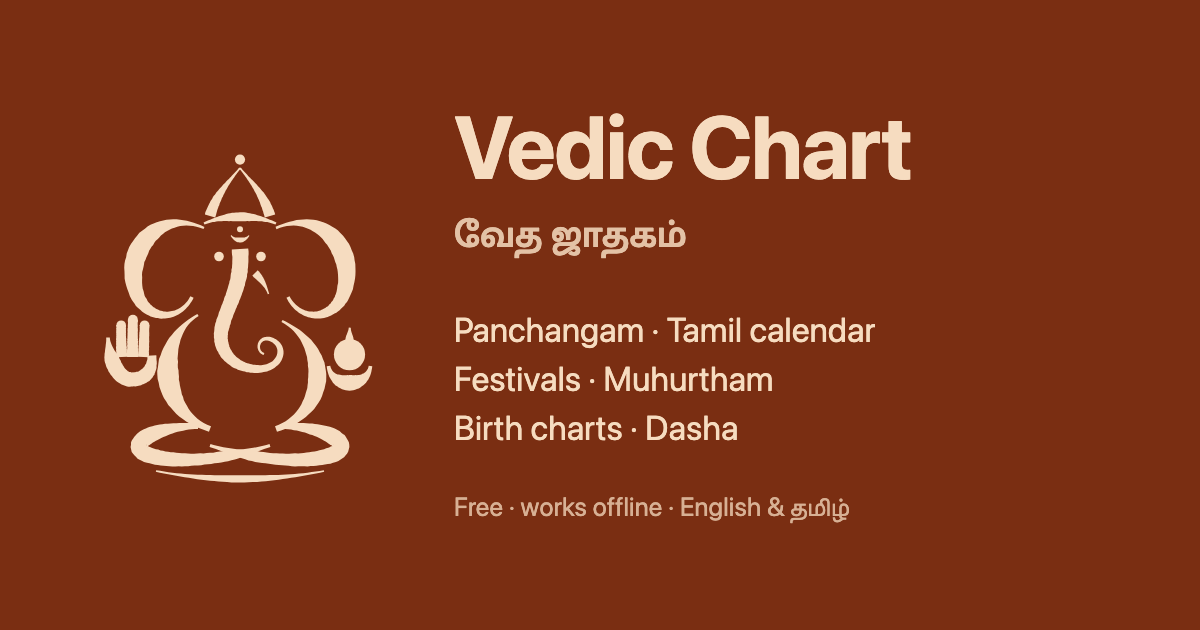
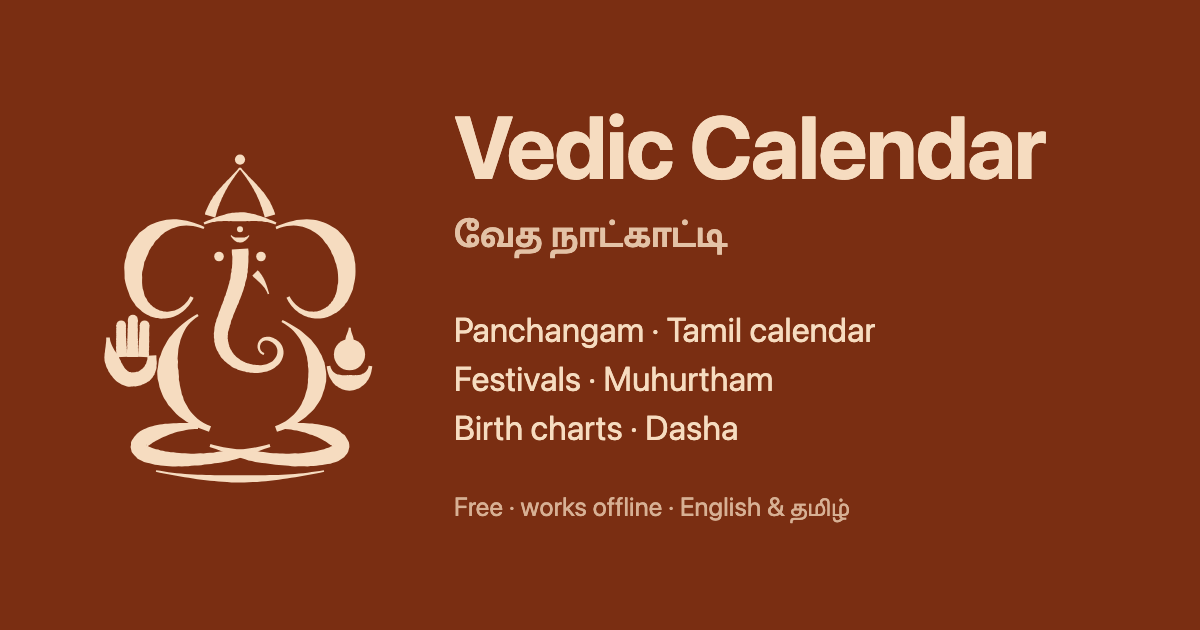
Rename to Vedic Calendar, use a 12-hour time picker, and tighten muhurtham rules
The site is now called Vedic Calendar (வேத நாட்காட்டி) in the heading,
title, metadata, app manifest and share banner. The URL, repository and
storage keys keep the vedic-chart name so links and saved settings work.

The time field is now hour, minute and AM/PM pickers, since a native time
field shows 24-hour time on some devices. Seconds are gone; the summary
and chart centres show 12-hour times. Links with ?time=HH:MM[:SS] still
work.

Muhurtham windows now run until sunset instead of stopping at 1 pm. This
adds no general days (from mid-afternoon the Sun sits in the 7th or 8th
from the lagna) but a few education days.

Muhurtham windows now avoid barred panchanga yogas, as in classical texts
such as Muhurta Chintamani: Vyatipata and Vaidhriti, the first half of
Parigha, and the opening ghatis of Vishkambha, Vajra, Shula, Ganda,
Atiganda and Vyaghata. The rules list and sources say so. This drops 3 of
Harikesanallur's 2026-27 Chennai days, now listed as exceptions in the
published-list check.

The education-day rules now fold away under "Rules used", closed by
default.

Changed region(s): [[0.6167, 0.181, 0.8942, 0.3016], [0.4625, 0.3317, 0.6167, 0.4222]]

diff --git a/docs/js/i18n.js b/docs/js/i18n.js
@@ -21,14 +21,17 @@ const fill = (s, vars) => s.replace(/\{(\w+)\}/g, (_, k) => (vars && k in vars ?
 // ---------- interface phrases (English template -> Tamil) ----------
 
 const UI = {
-  "Vedic Chart": "வேத ஜாதகம்",
-  "Vedic Chart – Free Panchangam, Tamil Calendar, Muhurtham & Birth Chart": "வேத ஜாதகம் – இலவச பஞ்சாங்கம், தமிழ்த் தேதி, முகூர்த்தம், ஜாதகம்",
+  "Vedic Calendar": "வேத நாட்காட்டி",
+  "Vedic Calendar – Free Panchangam, Tamil Calendar, Muhurtham & Birth Chart": "வேத நாட்காட்டி – இலவச பஞ்சாங்கம், தமிழ்த் தேதி, முகூர்த்தம், ஜாதகம்",
   "Free Vedic calendar app: daily Panchangam with tithi, nakshatra, Rahu Kalam and hora, Tamil calendar dates, Hindu festival dates and puja times, Shubha Muhurtham days with lagna, and South Indian birth charts with Vimshottari dasha.": "இலவச வேத நாட்காட்டி செயலி: திதி, நட்சத்திரம், ராகு காலம், ஓரையுடன் தினசரி பஞ்சாங்கம், தமிழ்த் தேதி, பண்டிகை நாட்கள், பூஜை நேரங்கள், லக்னத்துடன் சுப முகூர்த்த நாட்கள், விம்சோத்தரி தசையுடன் தென்னிந்திய ஜாதகம்.",
   "Place": "இடம்",
   "Start typing a city or town": "ஊர் அல்லது நகரத்தின் பெயரை உள்ளிடவும்",
   "Search": "தேடு",
   "Date": "தேதி",
   "Time": "நேரம்",
+  "Hour": "மணி",
+  "Minute": "நிமிடம்",
+  "AM or PM": "முற்பகல் அல்லது பிற்பகல்",
   "(local)": "(உள்ளூர்)",
   "Latitude": "அட்சரேகை",
   "Longitude": "தீர்க்கரேகை",
@@ -142,22 +145,24 @@ const UI = {
   "Not a Kari naal.": "கரி நாள் அல்ல.",
   "Yogam (from the weekday and the nakshatra at sunrise): Amirtha or Siddha, not Marana or Prabalarishta.": "யோகம் (கிழமை, சூரிய உதய நட்சத்திரத்திலிருந்து): அமிர்த அல்லது சித்த யோகம்; மரண, பிரபலாரிஷ்ட யோகம் அல்ல.",
   "Not an eclipse day, and neither Jupiter nor Venus combust (moudhyam).": "கிரகண நாள் அல்ல; குருவோ சுக்கிரனோ மௌட்யத்தில் (அஸ்தங்கம்) இல்லை.",
-  "Between an hour before sunrise (not before 5 am) and 1 pm.": "சூரிய உதயத்துக்கு ஒரு மணி நேரம் முன்பிலிருந்து (காலை 5 மணிக்கு முன் அல்ல) மதியம் 1 மணி வரை.",
+  "Between an hour before sunrise (not before 5 am) and sunset.": "சூரிய உதயத்துக்கு ஒரு மணி நேரம் முன்பிலிருந்து (காலை 5 மணிக்கு முன் அல்ல) சூரிய அஸ்தமனம் வரை.",
   "Outside Rahu Kalam, Yamaganda, Gulika Kalam and Vishti karana.": "ராகு காலம், எமகண்டம், குளிகை, விஷ்டி கரணம் தவிர்த்து.",
   "No planet in the 7th or 8th house from the lagna.": "லக்னத்திலிருந்து 7, 8-ஆம் வீடுகளில் கிரகம் இல்லை.",
   "The lagna isn't in the first or last degree of its sign.": "லக்னம் ராசியின் முதல் அல்லது கடைசி பாகையில் இல்லை.",
   "At least 20 minutes long.": "குறைந்தது 20 நிமிடம்.",
+  "Panchanga yoga: not Vyatipata or Vaidhriti, not the first half of Parigha, and not the first 3 ghatis (72 minutes) of Vishkambha or Vajra, 5 of Shula, 6 of Ganda or Atiganda, or 9 of Vyaghata.": "பஞ்சாங்க யோகம்: வியதீபாதம், வைதிருதி அல்ல; பரிகத்தின் முதல் பாதி அல்ல; விஷ்கம்பம், வஜ்ரம் ஆகியவற்றின் முதல் 3 நாழிகை (72 நிமிடம்), சூலத்தின் முதல் 5, கண்டம், அதிகண்டம் ஆகியவற்றின் முதல் 6, வியாகாதத்தின் முதல் 9 நாழிகை அல்ல.",
   "Rules used": "பயன்படுத்திய விதிகள்",
   "The day": "நாள்",
   "The time": "நேரம்",
   "Sources": "ஆதாரங்கள்",
-  "Weekday, tithi, nakshatra, month, Kari naal and time of day follow Tamil calendar practice; Rahu Kalam, Yamaganda, Gulika Kalam, Vishti karana, the 8th house, eclipses, moudhyam and lagna sandhi follow general panchangam practice.": "கிழமை, திதி, நட்சத்திரம், மாதம், கரி நாள், நேரம் ஆகியவை தமிழ் நாட்காட்டி வழக்கப்படி; ராகு காலம், எமகண்டம், குளிகை, விஷ்டி கரணம், 8-ஆம் வீடு, கிரகணம், மௌட்யம், லக்ன சந்தி ஆகியவை பொதுவான பஞ்சாங்க வழக்கப்படி.",
+  "Weekday, tithi, nakshatra, month, Kari naal and time of day follow Tamil calendar practice; Rahu Kalam, Yamaganda, Gulika Kalam, Vishti karana, the 8th house, eclipses, moudhyam and lagna sandhi follow general panchangam practice. The panchanga yoga rule follows classical muhurtha texts such as Muhurta Chintamani; many Tamil calendars don't apply it, so a few of their days aren't listed here.": "கிழமை, திதி, நட்சத்திரம், மாதம், கரி நாள், நேரம் ஆகியவை தமிழ் நாட்காட்டி வழக்கப்படி; ராகு காலம், எமகண்டம், குளிகை, விஷ்டி கரணம், 8-ஆம் வீடு, கிரகணம், மௌட்யம், லக்ன சந்தி ஆகியவை பொதுவான பஞ்சாங்க வழக்கப்படி. பஞ்சாங்க யோக விதி முகூர்த்த சிந்தாமணி போன்ற பழைய முகூர்த்த நூல்களைப் பின்பற்றுகிறது; பல தமிழ் நாட்காட்டிகள் இதைப் பயன்படுத்துவதில்லை, அதனால் அவற்றின் சில நாட்கள் இங்கே இடம்பெறவில்லை.",
   "The empty 7th house and the rules for the extra education days: B. V. Raman, Muhurtha or Electional Astrology, chapters 9 and 11": "7-ஆம் வீடு காலியாக இருப்பதும் கல்வி தொடங்கக் கூடுதல் நாட்களுக்கான விதிகளும்: பி. வி. ராமன், Muhurtha or Electional Astrology, அத்தியாயங்கள் 9, 11",
   "chapter 9 summary": "அத்தியாயம் 9 சுருக்கம்",
   "chapter 11 summary": "அத்தியாயம் 11 சுருக்கம்",
   "Amirtha, Siddha, Marana and Prabalarishta yogam by weekday and nakshatra:": "கிழமை, நட்சத்திர அடிப்படையில் அமிர்த, சித்த, மரண, பிரபலாரிஷ்ட யோகங்கள்:",
   "Ungal Vazhkkai Vazhikatti": "உங்கள் வாழ்க்கை வழிகாட்டி",
-  "Vidyarambham and other starts of learning can also be held on these days, which miss the general rules, mostly by falling in Aadi, Purattasi or Margazhi or on Ardra. They follow B. V. Raman's rules for education: nakshatra Ashwini, Rohini, Mrigashira, Ardra, Punarvasu, Pushya, Uttara Phalguni, Hasta, Chitra, Swati, Uttara Ashadha, Shravana, Dhanishta, Shatabhisha or Revati; the general tithis except Chaturthi and Chaturdashi; any month; and a lagna that isn't a fixed sign. The other day and time rules apply, except the empty 7th house and moudhyam.": "வித்யாரம்பம் போன்ற கல்வித் தொடக்கங்களை இந்த நாட்களிலும் செய்யலாம்; இவை பொது விதிகளுக்குப் பொருந்தாதவை (பெரும்பாலும் ஆடி, புரட்டாசி, மார்கழி மாதங்களில் அல்லது திருவாதிரையில் வருவதால்). இவை பி. வி. ராமனின் கல்வி விதிகளைப் பின்பற்றுகின்றன: நட்சத்திரம் அஸ்வினி, ரோகிணி, மிருகசீரிஷம், திருவாதிரை, புனர்பூசம், பூசம், உத்திரம், அஸ்தம், சித்திரை, சுவாதி, உத்திராடம், திருவோணம், அவிட்டம், சதயம் அல்லது ரேவதி; சதுர்த்தி, சதுர்த்தசி தவிர பொதுத் திதிகள்; எந்த மாதமும்; ஸ்திர ராசி அல்லாத லக்னம். 7-ஆம் வீடு, மௌட்யம் தவிர பிற நாள், நேர விதிகள் பொருந்தும்.",
+  "Vidyarambham and other starts of learning can also be held on these days, which miss the general rules, mostly by falling in Aadi, Purattasi or Margazhi or on Ardra.": "வித்யாரம்பம் போன்ற கல்வித் தொடக்கங்களை இந்த நாட்களிலும் செய்யலாம்; இவை பொது விதிகளுக்குப் பொருந்தாதவை (பெரும்பாலும் ஆடி, புரட்டாசி, மார்கழி மாதங்களில் அல்லது திருவாதிரையில் வருவதால்).",
+  "They follow B. V. Raman's rules for education: nakshatra Ashwini, Rohini, Mrigashira, Ardra, Punarvasu, Pushya, Uttara Phalguni, Hasta, Chitra, Swati, Uttara Ashadha, Shravana, Dhanishta, Shatabhisha or Revati; the general tithis except Chaturthi and Chaturdashi; any month; and a lagna that isn't a fixed sign. The other day and time rules apply, except the empty 7th house and moudhyam.": "இவை பி. வி. ராமனின் கல்வி விதிகளைப் பின்பற்றுகின்றன: நட்சத்திரம் அஸ்வினி, ரோகிணி, மிருகசீரிஷம், திருவாதிரை, புனர்பூசம், பூசம், உத்திரம், அஸ்தம், சித்திரை, சுவாதி, உத்திராடம், திருவோணம், அவிட்டம், சதயம் அல்லது ரேவதி; சதுர்த்தி, சதுர்த்தசி தவிர பொதுத் திதிகள்; எந்த மாதமும்; ஸ்திர ராசி அல்லாத லக்னம். 7-ஆம் வீடு, மௌட்யம் தவிர பிற நாள், நேர விதிகள் பொருந்தும்.",
   // tables
   "Body": "கிரகம்",
   "Longitude|table": "பாகை", // "|context" keys show the part before "|" in English

diff --git a/docs/index.html b/docs/index.html
@@ -4,9 +4,9 @@
   <meta charset="utf-8">
   <meta name="viewport" content="width=device-width, initial-scale=1, viewport-fit=cover">
   <meta name="apple-mobile-web-app-capable" content="yes">
-  <meta name="apple-mobile-web-app-title" content="Vedic Chart">
+  <meta name="apple-mobile-web-app-title" content="Vedic Calendar">
   <meta name="theme-color" content="#7a2e12">
-  <title>Vedic Chart – Free Panchangam, Tamil Calendar, Muhurtham &amp; Birth Chart</title>
+  <title>Vedic Calendar – Free Panchangam, Tamil Calendar, Muhurtham &amp; Birth Chart</title>
   <meta name="description" content="Free Vedic calendar app: daily Panchangam with tithi, nakshatra, Rahu Kalam and hora, Tamil calendar dates, Hindu festival dates and puja times, Shubha Muhurtham days with lagna, and South Indian birth charts with Vimshottari dasha.">
   <!-- app.js points the canonical link at https://aganba.github.io/vedic-chart/ (or ?lang=ta in Tamil), so
        shared links with birth details or ?tab= are folded into one page. -->
@@ -14,20 +14,20 @@
   <link rel="alternate" hreflang="ta" href="https://aganba.github.io/vedic-chart/?lang=ta">
   <link rel="alternate" hreflang="x-default" href="https://aganba.github.io/vedic-chart/">
   <meta property="og:type" content="website">
-  <meta property="og:site_name" content="Vedic Chart">
-  <meta property="og:title" content="Vedic Chart – Free Panchangam, Tamil Calendar, Muhurtham &amp; Birth Chart">
+  <meta property="og:site_name" content="Vedic Calendar">
+  <meta property="og:title" content="Vedic Calendar – Free Panchangam, Tamil Calendar, Muhurtham &amp; Birth Chart">
   <meta property="og:description" content="Free Vedic calendar app: daily Panchangam with tithi, nakshatra, Rahu Kalam and hora, Tamil calendar dates, Hindu festival dates and puja times, Shubha Muhurtham days with lagna, and South Indian birth charts with Vimshottari dasha.">
   <meta property="og:url" content="https://aganba.github.io/vedic-chart/">
   <meta property="og:image" content="https://aganba.github.io/vedic-chart/og-image.png">
   <meta property="og:image:width" content="1200">
   <meta property="og:image:height" content="630">
-  <meta property="og:image:alt" content="Vedic Chart: Panchangam, Tamil calendar, festivals, Muhurtham, birth charts and dasha">
+  <meta property="og:image:alt" content="Vedic Calendar: Panchangam, Tamil calendar, festivals, Muhurtham, birth charts and dasha">
   <meta name="twitter:card" content="summary_large_image">
   <script type="application/ld+json">
   {
     "@context": "https://schema.org",
     "@type": "WebApplication",
-    "name": "Vedic Chart",
+    "name": "Vedic Calendar",
     "url": "https://aganba.github.io/vedic-chart/",
     "image": "https://aganba.github.io/vedic-chart/og-image.png",
     "description": "Free Vedic calendar app: daily Panchangam with tithi, nakshatra, Rahu Kalam and hora, Tamil calendar dates, Hindu festival dates and puja times, Shubha Muhurtham days with lagna, and South Indian birth charts with Vimshottari dasha.",
@@ -62,7 +62,7 @@
     <span class="emblem" role="img" aria-label="Om Ganesha"></span>
   </div>
   <header class="topbar">
-    <h1 data-i18n="Vedic Chart">Vedic Chart</h1>
+    <h1 data-i18n="Vedic Calendar">Vedic Calendar</h1>
     <button type="button" id="lang" class="secondary lang-toggle" lang="ta" aria-label="தமிழில் காட்டு">தமிழ்</button>
   </header>
 
@@ -80,9 +80,16 @@
         <label for="date"><span data-i18n="Date">Date</span> <span class="muted" id="datefmt"></span></label>
         <input id="date" type="date" required>
       </div>
-      <div class="field">
-        <label for="time"><span data-i18n="Time">Time</span> <span class="muted" data-i18n="(local)">(local)</span></label>
-        <input id="time" type="time" step="1" required>
+      <div class="field time-field">
+        <label for="hour"><span data-i18n="Time">Time</span> <span class="muted" data-i18n="(local)">(local)</span></label>
+        <!-- Hour, minute and AM/PM pickers rather than a native time field, whose
+             12/24-hour display follows the device. app.js keeps #time as HH:MM. -->
+        <div class="row time-row">
+          <select id="hour" aria-label="Hour" data-i18n-aria="Hour"></select>
+          <select id="minute" aria-label="Minute" data-i18n-aria="Minute"></select>
+          <select id="ampm" aria-label="AM or PM" data-i18n-aria="AM or PM"><option>AM</option><option>PM</option></select>
+        </div>
+        <input id="time" type="hidden">
       </div>
       <div class="field">
         <label for="lat"><span data-i18n="Latitude">Latitude</span> <span class="muted" data-i18n="(N +)">(N +)</span></label>
@@ -196,15 +203,16 @@
             </ul>
             <h3 data-i18n="The time">The time</h3>
             <ul>
-              <li data-i18n="Between an hour before sunrise (not before 5 am) and 1 pm.">Between an hour before sunrise (not before 5 am) and 1 pm.</li>
+              <li data-i18n="Between an hour before sunrise (not before 5 am) and sunset.">Between an hour before sunrise (not before 5 am) and sunset.</li>
               <li data-i18n="Outside Rahu Kalam, Yamaganda, Gulika Kalam and Vishti karana.">Outside Rahu Kalam, Yamaganda, Gulika Kalam and Vishti karana.</li>
+              <li data-i18n="Panchanga yoga: not Vyatipata or Vaidhriti, not the first half of Parigha, and not the first 3 ghatis (72 minutes) of Vishkambha or Vajra, 5 of Shula, 6 of Ganda or Atiganda, or 9 of Vyaghata.">Panchanga yoga: not Vyatipata or Vaidhriti, not the first half of Parigha, and not the first 3 ghatis (72 minutes) of Vishkambha or Vajra, 5 of Shula, 6 of Ganda or Atiganda, or 9 of Vyaghata.</li>
               <li data-i18n="No planet in the 7th or 8th house from the lagna.">No planet in the 7th or 8th house from the lagna.</li>
               <li data-i18n="The lagna isn&#39;t in the first or last degree of its sign.">The lagna isn't in the first or last degree of its sign.</li>
               <li data-i18n="At least 20 minutes long.">At least 20 minutes long.</li>
             </ul>
             <h3 data-i18n="Sources">Sources</h3>
             <ul>
-              <li data-i18n="Weekday, tithi, nakshatra, month, Kari naal and time of day follow Tamil calendar practice; Rahu Kalam, Yamaganda, Gulika Kalam, Vishti karana, the 8th house, eclipses, moudhyam and lagna sandhi follow general panchangam practice.">Weekday, tithi, nakshatra, month, Kari naal and time of day follow Tamil calendar practice; Rahu Kalam, Yamaganda, Gulika Kalam, Vishti karana, the 8th house, eclipses, moudhyam and lagna sandhi follow general panchangam practice.</li>
+              <li data-i18n="Weekday, tithi, nakshatra, month, Kari naal and time of day follow Tamil calendar practice; Rahu Kalam, Yamaganda, Gulika Kalam, Vishti karana, the 8th house, eclipses, moudhyam and lagna sandhi follow general panchangam practice. The panchanga yoga rule follows classical muhurtha texts such as Muhurta Chintamani; many Tamil calendars don't apply it, so a few of their days aren't listed here.">Weekday, tithi, nakshatra, month, Kari naal and time of day follow Tamil calendar practice; Rahu Kalam, Yamaganda, Gulika Kalam, Vishti karana, the 8th house, eclipses, moudhyam and lagna sandhi follow general panchangam practice. The panchanga yoga rule follows classical muhurtha texts such as Muhurta Chintamani; many Tamil calendars don't apply it, so a few of their days aren't listed here.</li>
               <li><span data-i18n="The empty 7th house and the rules for the extra education days: B. V. Raman, Muhurtha or Electional Astrology, chapters 9 and 11">The empty 7th house and the rules for the extra education days: B. V. Raman, Muhurtha or Electional Astrology, chapters 9 and 11</span> (<a href="https://vedastro.org/blog/Muhurtha-Chapter-9-Marriage.html" target="_blank" rel="noopener" data-i18n="chapter 9 summary">chapter 9 summary</a>, <a href="https://vedastro.org/blog/Muhurtha-Chapter-11-Elections-Pertaining-to-Education.html" target="_blank" rel="noopener" data-i18n="chapter 11 summary">chapter 11 summary</a>)</li>
               <li><span data-i18n="Amirtha, Siddha, Marana and Prabalarishta yogam by weekday and nakshatra:">Amirtha, Siddha, Marana and Prabalarishta yogam by weekday and nakshatra:</span> <a href="https://ungalvazhkkai.seithisaral.in/how-to-predict-amitha-yoga-chitha-yoga-and-marana-yoga/" target="_blank" rel="noopener" data-i18n="Ungal Vazhkkai Vazhikatti">Ungal Vazhkkai Vazhikatti</a></li>
             </ul>

diff --git a/docs/app.js b/docs/app.js
@@ -126,7 +126,39 @@ function setNow() {
   const d = new Date();
   const p = (n) => String(n).padStart(2, "0");
   $("date").value = `${d.getFullYear()}-${p(d.getMonth() + 1)}-${p(d.getDate())}`;
-  $("time").value = `${p(d.getHours())}:${p(d.getMinutes())}:${p(d.getSeconds())}`;
+  setTime(`${p(d.getHours())}:${p(d.getMinutes())}`);
+}
+
+// The time pickers: hour 1-12, minute, AM/PM. #time holds the same time as
+// 24-hour "HH:MM" for the calculations and shared links.
+function initTimePicker() {
+  const p = (n) => String(n).padStart(2, "0");
+  $("hour").innerHTML = Array.from({ length: 12 }, (_, i) => `<option value="${i + 1}">${i + 1}</option>`).join("");
+  $("minute").innerHTML = Array.from({ length: 60 }, (_, i) => `<option value="${i}">${p(i)}</option>`).join("");
+  for (const id of ["hour", "minute", "ampm"]) {
+    $(id).addEventListener("change", () => {
+      const h = Number($("hour").value) % 12 + ($("ampm").value === "PM" ? 12 : 0);
+      $("time").value = `${p(h)}:${p(Number($("minute").value))}`;
+      refreshTimezone();
+    });
+  }
+}
+
+// Sets the pickers and #time from "HH:MM" (seconds, if given, are dropped).
+function setTime(v) {
+  const m = String(v).match(/^(\d{1,2}):(\d{2})/);
+  if (!m) return;
+  const h = Math.min(Number(m[1]), 23), mi = Math.min(Number(m[2]), 59);
+  $("hour").value = String(h % 12 || 12);
+  $("minute").value = String(mi);
+  $("ampm").value = h < 12 ? "AM" : "PM";
+  $("time").value = `${String(h).padStart(2, "0")}:${String(mi).padStart(2, "0")}`;
+}
+
+// "2026-11-01 10:00 AM": the entered date and time, 12-hour clock.
+function whenText(c) {
+  const date = c.input.local_time.slice(0, 10);
+  return `${date} ${fmtTime(c.input.local_time, date)}`;
 }
 
 function devicePosition() {
@@ -325,7 +357,7 @@ function chartItem(b) {
 }
 
 function renderCharts(c) {
-  const when = `${c.input.local_time.replace("T", " ")} (UTC${fmtOffset(c.input.utc_offset)})`;
+  const when = `${whenText(c)} (UTC${fmtOffset(c.input.utc_offset)})`;
 
   const rasiBoxes = {};
   for (const b of c.bodies) (rasiBoxes[b.sign] ||= []).push(chartItem(b));
@@ -345,7 +377,7 @@ function renderSummary(c) {
   const coord = `${Math.abs(lat).toFixed(4)}°${compass(lat >= 0 ? "N" : "S")}, ${Math.abs(lon).toFixed(4)}°${compass(lon >= 0 ? "E" : "W")}`;
   $("summary").innerHTML = `
     <strong>${esc($("place").value || t("Chart"))}</strong>
-    <span>${esc(c.input.local_time.replace("T", " "))} · UTC${fmtOffset(c.input.utc_offset)}${c.input.timezone ? " · " + esc(c.input.timezone) : ""}</span>
+    <span>${esc(whenText(c))} · UTC${fmtOffset(c.input.utc_offset)}${c.input.timezone ? " · " + esc(c.input.timezone) : ""}</span>
     <span>${coord}</span>
     <span>${esc(t("Ayanamsa: {name} = {value}", { name: tr(c.settings.ayanamsa_label, "ayanamsa"),
       value: `${c.settings.ayanamsa_deg}° ${c.settings.ayanamsa_dms.replace(/^\d+° /, "")}` }))}</span>`;
@@ -605,7 +637,8 @@ function drawFestivals() {
     + (status ? `<p class="hint">${esc(status)}</p>` : !found.length ? `<p class="hint">${esc(t("No festivals found."))}</p>` : "");
   // The year's list, then a note with the extra days for starting education.
   const extra = education.length ? `<div class="muhurtha-extra"><h3 class="muhurtha-extra-title">${esc(t("More days for starting education"))}</h3>`
-    + `<p class="hint">${esc(t("Vidyarambham and other starts of learning can also be held on these days, which miss the general rules, mostly by falling in Aadi, Purattasi or Margazhi or on Ardra. They follow B. V. Raman's rules for education: nakshatra Ashwini, Rohini, Mrigashira, Ardra, Punarvasu, Pushya, Uttara Phalguni, Hasta, Chitra, Swati, Uttara Ashadha, Shravana, Dhanishta, Shatabhisha or Revati; the general tithis except Chaturthi and Chaturdashi; any month; and a lagna that isn't a fixed sign. The other day and time rules apply, except the empty 7th house and moudhyam."))}</p>`
+    + `<p class="hint">${esc(t("Vidyarambham and other starts of learning can also be held on these days, which miss the general rules, mostly by falling in Aadi, Purattasi or Margazhi or on Ardra."))}</p>`
+    + `<details class="muhurtha-rules"><summary>${esc(t("Rules used"))}</summary><p>${esc(t("They follow B. V. Raman's rules for education: nakshatra Ashwini, Rohini, Mrigashira, Ardra, Punarvasu, Pushya, Uttara Phalguni, Hasta, Chitra, Swati, Uttara Ashadha, Shravana, Dhanishta, Shatabhisha or Revati; the general tithis except Chaturthi and Chaturdashi; any month; and a lagna that isn't a fixed sign. The other day and time rules apply, except the empty 7th house and moudhyam."))}</p></details>`
     + byMonth(education, "upcoming-list muhurtha-list", muhurthaRow) + "</div>" : "";
   drawSpecialDays(timeText, status);
   $("muhurthaYear").innerHTML = byMonth(general, "upcoming-list muhurtha-list", muhurthaRow)
@@ -830,7 +863,7 @@ function applyStaticText() {
   $("footer").innerHTML = FOOTER[getLang()];
   $("datefmt").textContent = `(${dateFormatHint()})`;
   // Search-result title, description and canonical URL for the current language.
-  document.title = t("Vedic Chart – Free Panchangam, Tamil Calendar, Muhurtham & Birth Chart");
+  document.title = t("Vedic Calendar – Free Panchangam, Tamil Calendar, Muhurtham & Birth Chart");
   document.querySelector('meta[name="description"]').content = t("Free Vedic calendar app: daily Panchangam with tithi, nakshatra, Rahu Kalam and hora, Tamil calendar dates, Hindu festival dates and puja times, Shubha Muhurtham days with lagna, and South Indian birth charts with Vimshottari dasha.");
   let canon = document.querySelector('link[rel="canonical"]');
   if (!canon) {
@@ -866,11 +899,13 @@ async function init() {
   setLang(qsLang || savedLang());
   applyStaticText();
   $("lang").addEventListener("click", () => switchLanguage(getLang() === "ta" ? "en" : "ta"));
+  initTimePicker();
+  setTime("12:00"); // until the current time or a URL's time fills it in
   // URL parameters (?date=..&time=..&lat=..&lon=..) override the device defaults.
   const qs = new URLSearchParams(location.search);
   const fromUrl = qs.has("date");
   if (fromUrl) {
-    for (const f of FIELDS) if (qs.has(f)) $(f).value = qs.get(f);
+    for (const f of FIELDS) if (qs.has(f)) f === "time" ? setTime(qs.get(f)) : ($(f).value = qs.get(f));
     offsetManual = qs.has("offset");
   }
 
@@ -883,7 +918,7 @@ async function init() {
     $("tzname").textContent = "";
     showTzNote("");
   });
-  for (const id of ["lat", "lon", "date", "time"]) $(id).addEventListener("change", refreshTimezone);
+  for (const id of ["lat", "lon", "date"]) $(id).addEventListener("change", refreshTimezone);
   document.addEventListener("click", (e) => { if (!e.target.closest(".place")) $("results").hidden = true; });
 
   $("now").addEventListener("click", resetToNow);

diff --git a/docs/js/muhurtha.js b/docs/js/muhurtha.js
@@ -8,9 +8,12 @@
 //  - The day's yogam (weekday + sunrise nakshatra, YOGAM below) is Amirtha or
 //    Siddha, not Marana or Prabalarishta.
 // Every window must pass these:
-//  - Between an hour before sunrise (but not before 5 am) and 1 pm, as in
-//    Tamil calendars.
+//  - Between an hour before sunrise (but not before 5 am) and sunset.
 //  - Not in Rahu Kalam, Yamaganda, Gulika Kalam or Vishti (Bhadra) karana.
+//  - Panchanga yoga (BAD_YOGA below): not Vyatipata or Vaidhriti, not the
+//    first half of Parigha, and not the opening ghatis (24 minutes each) of
+//    Vishkambha, Vajra (3), Shula (5), Ganda, Atiganda (6) or Vyaghata (9).
+//    Tamil calendars often skip this; it drops 3 of Harikesanallur's days.
 //  - Ashtama shuddhi: no planet (Moon included) in the 8th house from the lagna.
 //  - The lagna isn't in the first or last degree of its sign (sandhi).
 //  - At least 20 minutes long.
@@ -83,6 +86,11 @@ const NAK_NAMES = ["Ashwini", "Bharani", "Krittika", "Rohini", "Mrigashira", "Ar
 const SIGN_NAMES = ["Mesha", "Vrishabha", "Mithuna", "Karka", "Simha", "Kanya",
   "Tula", "Vrischika", "Dhanu", "Makara", "Kumbha", "Meena"];
 
+// Panchanga yogas (0 = Vishkambha ... 26 = Vaidhriti) barred for their first
+// so many ghatis; Parigha (18) is barred for its first half.
+const BAD_YOGA = { 16: Infinity, 26: Infinity, 0: 3, 14: 3, 8: 5, 5: 6, 9: 6, 12: 9 };
+const YOGA_SPAN = 360 / 27;
+
 const STEP = 5 / 1440; // sampling step: 5 minutes
 const MIN_LEN = 20 / 1440;
 const norm = (x) => ((x % 360) + 360) % 360;
@@ -134,7 +142,7 @@ export function muhurthaFor(dateWall, lat, lon, offset) {
   const combust = gap(planetLon(noon, SE.JUPITER)[0], sunNoon) < 11 || gap(ven, sunNoon) < (venSpeed < 0 ? 8 : 10);
 
   const start = Math.max(sr - 1 / 24, julFromWall(dateWall + 5 * 3600e3 + 1000, wallOffset));
-  const end = Math.min(julFromWall(dateWall + 13 * 3600e3, wallOffset), ss);
+  const end = ss;
   const eighth = (ss - sr) / 8;
   const kalams = KALAMS.map((t) => [sr + (t[weekday] - 1) * eighth, sr + t[weekday] * eighth]);
   // Planets other than the Moon barely move in a day: take their signs at the
@@ -159,6 +167,13 @@ export function muhurthaFor(dateWall, lat, lon, offset) {
     if (!r.tithi.has(ti)) return null;
     const k = Math.floor(el / 6);
     if (k >= 1 && k <= 56 && (k - 1) % 7 === 6) return null; // Vishti
+    // Panchanga yoga; ghatis since it began, from the current Sun + Moon speed.
+    const yl = norm(moon + sun), yi = Math.floor(yl / YOGA_SPAN), into = yl - yi * YOGA_SPAN;
+    if (yi === 18 && into < YOGA_SPAN / 2) return null; // Parigha
+    if (yi in BAD_YOGA) {
+      const rate = planetLon(jd, SE.MOON)[1] + planetLon(jd, SE.SUN)[1]; // degrees a day
+      if ((into / rate) * 60 < BAD_YOGA[yi]) return null;
+    }
     const nak = Math.floor(moon / NAK_SPAN);
     if (!r.nak.has(nak)) return null;
     const lagnaLon = norm(lagnaAndMc(jd, lat, lon)[0]);

diff --git a/docs/style.css b/docs/style.css
@@ -76,6 +76,8 @@ h2 { margin: 0 0 12px; font-size: 16px; }
 .field label { font-size: 13px; font-weight: 600; }
 .row { display: flex; gap: 8px; }
 .row input { flex: 1; min-width: 0; }
+.time-row { gap: 6px; }
+.time-row select { flex: 1; min-width: 0; padding-left: 8px; padding-right: 4px; }
 input, select, button {
   font: inherit; color: var(--ink); background: var(--input);
   border: 1px solid var(--line); border-radius: 8px; padding: 8px 10px; min-height: 40px;
@@ -137,6 +139,7 @@ tr.lagna td:first-child { color: var(--lagna); font-weight: 700; }
 @media (max-width: 760px) {
   .form { grid-template-columns: repeat(2, minmax(0, 1fr)); }
   .field.wide { grid-column: 1 / -1; }
+  .field.time-field { grid-column: 1 / -1; } /* room for hour, minute and AM/PM */
   .actions { grid-column: 1 / -1; }
   .actions #go { flex: 1; }
   .charts { grid-template-columns: minmax(0, 1fr); }
@@ -237,6 +240,7 @@ tr.lagna td:first-child { color: var(--lagna); font-weight: 700; }
 .muhurtha-rules h3 { margin: 12px 0 4px; font-size: 13px; color: var(--ink); }
 .muhurtha-rules ul { margin: 0; padding-left: 20px; display: grid; gap: 3px; }
 .muhurtha-rules a { color: inherit; }
+.muhurtha-rules p { margin: 8px 0 0; }
 /* the extra days for starting education, below the year's list */
 .muhurtha-extra { margin-top: 24px; padding-top: 14px; border-top: 1px solid var(--line); }
 .muhurtha-extra-title { margin: 0 0 4px; font-size: 15px; color: var(--good); }

diff --git a/docs/sw.js b/docs/sw.js
@@ -1,7 +1,7 @@
 // Offline support, network first: every visit revalidates each file with the
 // server (cheap "304 Not Modified" when unchanged), so updates show up
 // immediately; the cached copy is used only when the network is unavailable.
-const CACHE = "vedic-chart-v48";
+const CACHE = "vedic-chart-v49";
 const CORE = [
   "./", "index.html", "style.css", "app.js", "manifest.webmanifest", "ganesha.svg", "favicon.svg", "favicon.ico",
   "js/swe.js", "js/astro.js", "js/shadbala.js", "js/dasha.js", "js/tz.js", "js/places.js", "js/festivals.js", "js/muhurtha.js", "js/specialdays.js", "js/i18n.js",

diff --git a/app/main.py b/app/main.py
@@ -14,7 +14,7 @@ from timezonefinder import TimezoneFinder
 
 from . import astro, places
 
-app = FastAPI(title="Vedic Chart")
+app = FastAPI(title="Vedic Calendar")
 _geocoder = Nominatim(user_agent="vedic-chart-local", timeout=10)
 
 

diff --git a/README.md b/README.md
@@ -1,4 +1,4 @@
-# Vedic Chart
+# Vedic Calendar
 
 A web app for Vedic astrology. Enter a place, date and time to get:
 
@@ -23,7 +23,7 @@ The defaults reproduce [Jagannatha Hora](https://www.vedicastrologer.org/jh/):
 - Hora: the Vedic day's daytime and night are each split into 12 equal horas, ruled in the Chaldean order (Saturn, Jupiter, Mars, Sun, Venus, Mercury, Moon) starting from the vara lord at sunrise
 - Sunrise: upper limb of the Sun with standard refraction
 - Festivals: tithi festivals fall on the first day whose kaala (sunrise, madhyahna, aparahna, pradosha or nishita) lies in the tithi, in the amanta lunar month, never in an adhika month; Raksha Bandhan and Holika Dahan avoid Bhadra. Tamil and Malayalam months start on the day of the sankranti if it falls before 3/5 of the daytime; Makara Sankranti uses sunset. `tools/festival_check.mjs` checks 53 published 2025–2026 dates and scans both years to make sure no festival is reported twice.
-- Shubha muhurtham: every day is not a Kari naal (the fixed inauspicious days of each Tamil month), first day of a Tamil month, eclipse day or Marana/Prabalarishta yogam (Tamil weekday–nakshatra yogam at sunrise, table from [Ungal Vazhkkai Vazhikatti](https://ungalvazhkkai.seithisaral.in/how-to-predict-amitha-yoga-chitha-yoga-and-marana-yoga/)); windows run from an hour before sunrise (not before 5 am) to 1 pm, outside Rahu Kalam, Yamaganda, Gulika Kalam and Vishti, with no planet in the 8th from the lagna and the lagna not in the first or last degree of its sign. General days use Tamil calendar rules for tithi, nakshatra, weekday (not Tuesday or Saturday) and month (not Aadi, Purattasi or Margazhi), plus an empty 7th house and no Jupiter or Venus combustion (B. V. Raman's *Muhurtha*, chapter 9, marriage); these find 44 of the 47 days of Harikesanallur Venkatraman's 2026–27 Chennai list, the other three failing those two added conditions. Extra education days use the stars, weekdays and lagnas of B. V. Raman's *Muhurtha* with the Tamil tithis less the Rikta ones; most fall in those three months or on Ardra. Panchangams disagree on the finer rules, so other calendars list some different days.
+- Shubha muhurtham: every day is not a Kari naal (the fixed inauspicious days of each Tamil month), first day of a Tamil month, eclipse day or Marana/Prabalarishta yogam (Tamil weekday–nakshatra yogam at sunrise, table from [Ungal Vazhkkai Vazhikatti](https://ungalvazhkkai.seithisaral.in/how-to-predict-amitha-yoga-chitha-yoga-and-marana-yoga/)); windows run from an hour before sunrise (not before 5 am) to sunset, outside Rahu Kalam, Yamaganda, Gulika Kalam and Vishti, with no planet in the 8th from the lagna, the lagna not in the first or last degree of its sign, and no barred panchanga yoga (Vyatipata, Vaidhriti, the first half of Parigha, and the opening ghatis of Vishkambha, Vajra, Shula, Ganda, Atiganda and Vyaghata, as in classical muhurtha texts). General days use Tamil calendar rules for tithi, nakshatra, weekday (not Tuesday or Saturday) and month (not Aadi, Purattasi or Margazhi), plus an empty 7th house and no Jupiter or Venus combustion (B. V. Raman's *Muhurtha*, chapter 9, marriage); these find 41 of the 47 days of Harikesanallur Venkatraman's 2026–27 Chennai list: three fail those two added conditions and three the panchanga yoga rule, which many Tamil calendars don't apply. Extra education days use the stars, weekdays and lagnas of B. V. Raman's *Muhurtha* with the Tamil tithis less the Rikta ones; most fall in those three months or on Ardra. Panchangams disagree on the finer rules, so other calendars list some different days.
 - Special Days: Amavasya is the day it prevails at aparahna, Pournami at sunset, Sankatahara Chaturthi (Krishna Chaturthi) at moonrise and Pradosham (Trayodashi) at sunset, with the kshaya fallback used for festivals; the Pradosha kaalam shown is 1½ hours before sunset to sunset, as in Tamil calendars. Eclipses come from the Swiss Ephemeris eclipse search: a solar eclipse is listed when the Sun is up for part of it at the place, a lunar eclipse when the Moon is up while it is in the umbra; penumbral lunar eclipses are left out.
 - Shadbala (computed but not shown on the page until it matches Jagannatha Hora on more charts): Brihat Parashara Hora Shastra rules, with the conventions listed at the top of `app/shadbala.py` (cyclic hora in Saptavargaja, Dig bala from the lagna, Ayana bala from the true obliquity, hora/abda/masa lords, Mercury's nature, special aspects by sign). Cheshta bala uses Surya Siddhanta mean motions with bija corrections. Planetary war (yuddha bala) is not applied.
 
